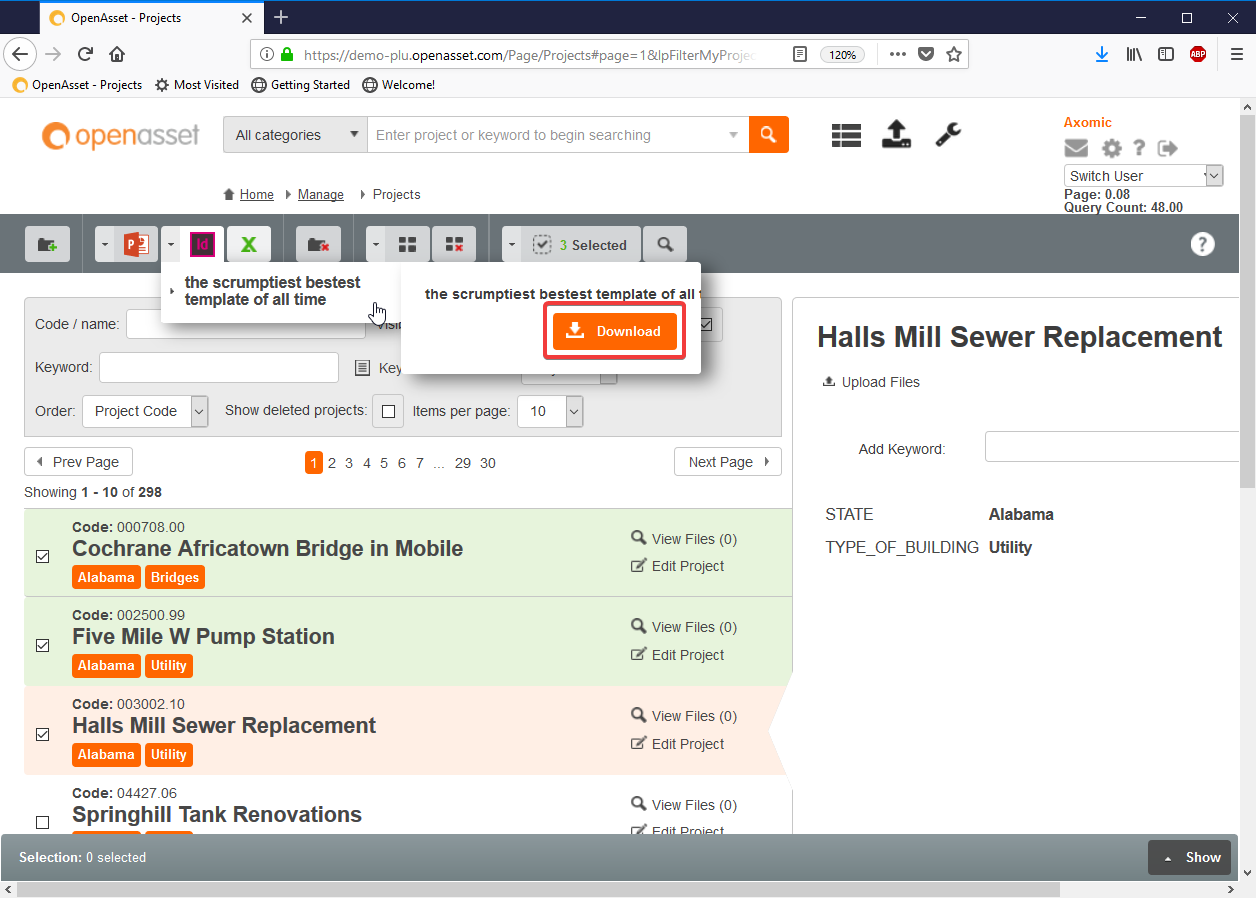
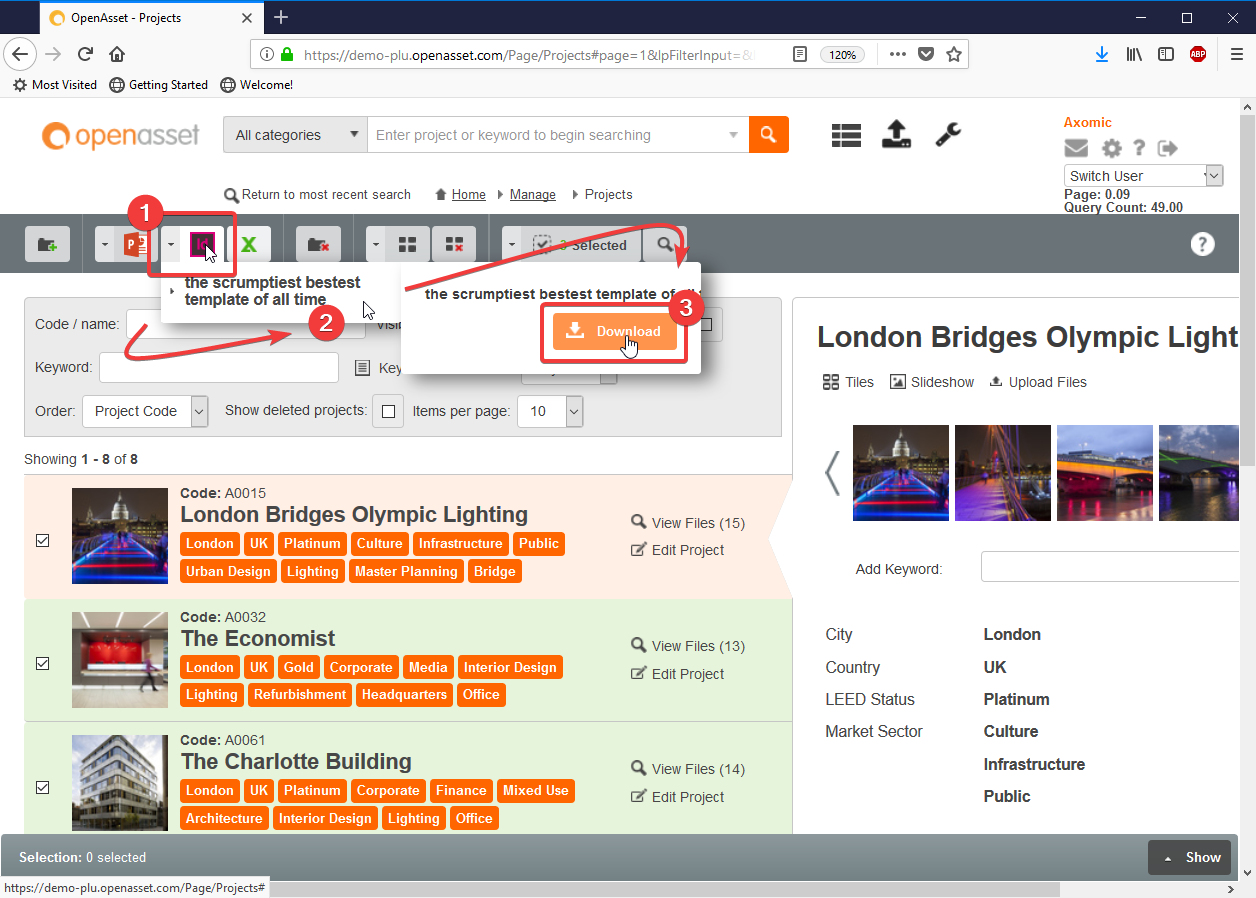
Explanation of how to create templates.

diff --git a/templating_tutorial/0_empty_template.html b/templating_tutorial/0_empty_template.html
@@ -83,17 +83,39 @@
 						...
 					</p>
 					<p>
-						... Except you don't really remember much about what a template really is...Scripts? Templates? Honest you've forgotten what these words even mean.
+						... Except you don't really remember much about what a template really is...Scripts? Templates? Honest you've forgotten what those words even mean.
 					</p>
 					<p>
 						You try to recall the presentation made by sales that showcased the process of creating a template to potential clients. It went a little something like...
 					</p>
 					<p>
-						<i>"This is our instance of OpenAsset"</i>, the sales pitch would go. <i>"Fully cloud-based software designed from the ground up to manage your digital assets!"</i>
+						"This is our instance of OpenAsset", the sales pitch would go."Fully cloud-based software designed from the ground up to manage your digital assets!"
 					</p>
-					<img src="images/template_00/openasset_main_page.png"/>
+					<img src="/images/template_00/openasset_main_page.png"/>
 					<p>
-						
+						"Let's check out the projects that we have in OpenAsset. Let's click here..."
+					</p>
+					<img src="/images/template_00/going_to_project_view.png"/>
+					<img src="/images/template_00/project_view.png"/>
+					<p>
+						"... and voila! We're in project view. Wow these are really nice projects. In fact, these projects look so nice, I want to show these projects to other people! Let me just select these three, espeically slick looking projects..."
+					</p>
+					<img src="/images/template_00/selecting_projects.png" />
+					<p>
+						"... and let's populate one of our InDesign templates with these projects! To do so, we'll need to mouse over the InDesign template icon and populate the template we're interested in..."
+					</p>
+					<img src="/images/templates_00/generating_template_menu.png" />
+					<p>
+						"Confirm that we want to populate the template."
+					</p>
+					<img src="/images/templates_00/generating_template_popup.png" />
+					<img src="/images/templates_00/indesign_doc_download_prompt.png" />
+					<p>
+						"... and wow! Looks like the template was created already! Let's take a look at the template."
+					</p>
+					<img src="/images/templates_00/indesign_template_preview.png" />
+					<p>
+						"Wow... that's clean."
 					</p>
 				</div>
 			</div>
